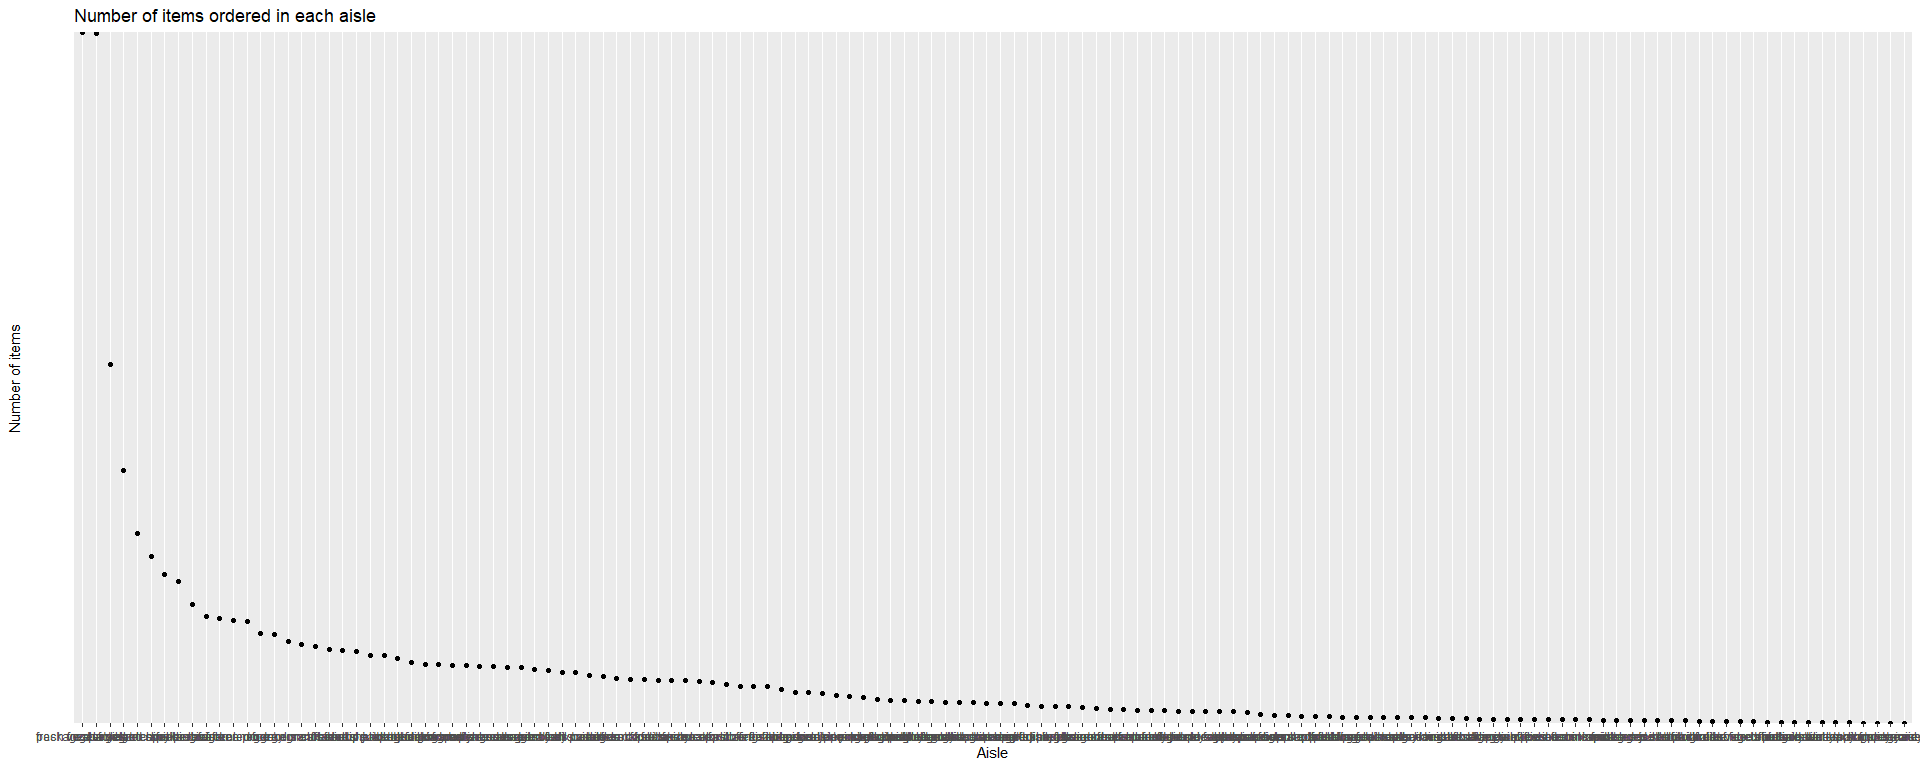
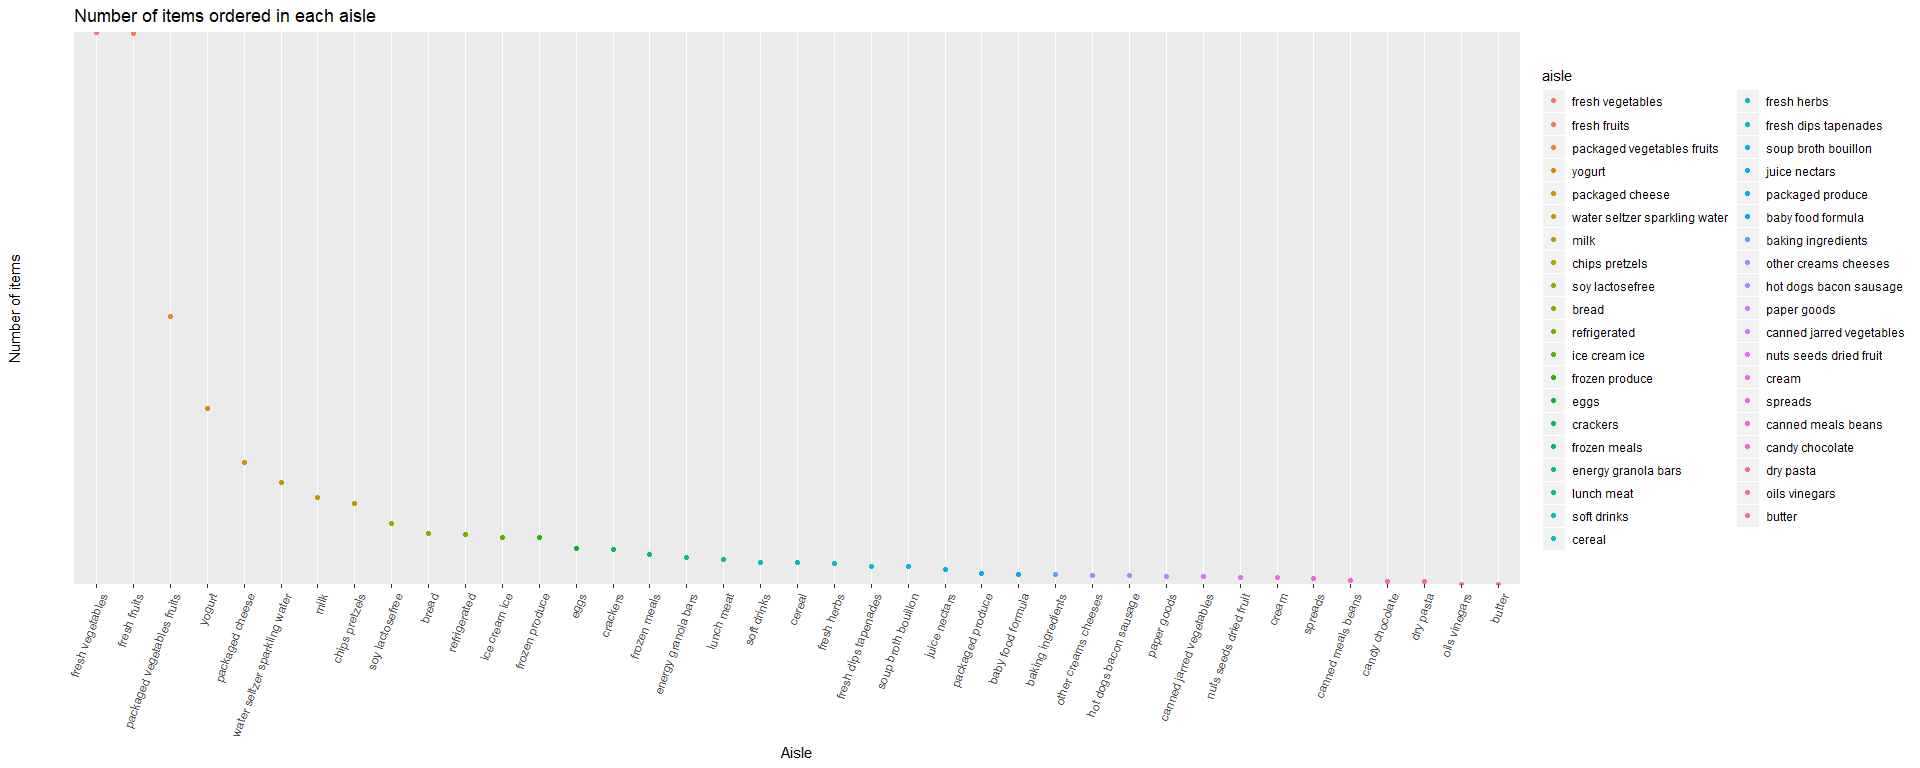
revise problem 1

diff --git a/p8105_hw3_yx2507.md b/p8105_hw3_yx2507.md
@@ -53,14 +53,16 @@ aisles sensibly, and organize your plot so others can read it.
 instacart%>%
   count(aisle)%>%
   mutate(aisle = fct_reorder(aisle, desc(n)))%>%
+  filter(n>10000)%>%
   ggplot(aes(x = aisle, y = n))+
    scale_y_discrete(breaks = c(200000,20000, 2000, 200),labels=c("200000","20000", "2000", "200"), limits = c(10000,200000)) +
-  geom_point()+
+  geom_point(aes(color = aisle))+
   labs(
       title = "Number of items ordered in each aisle",
       x = "Aisle",
       y = "Number of items"
-    )
+    ) +
+theme(axis.text.x = element_text(angle = 70, hjust = 1))
 ```
 
 ![](p8105_hw3_yx2507_files/figure-gfm/plot1-1.png)<!-- --> \#\# 1.3 Make
@@ -74,8 +76,9 @@ instacart %>%
   filter(aisle %in% c('baking ingredients', 'dog food care', 'packaged vegetables fruits')) %>% 
   group_by(aisle, product_name)  %>% 
   count() %>% 
-  group_by(aisle) %>% 
-  filter(n==max(n))%>%
+  group_by(aisle) %>%
+  mutate(order_rank=min_rank(desc(n)))%>%
+  filter(order_rank < 4)%>%
   select(aisle, product_name)%>%
    knitr::kable(
     col.names = c("Aisle", "Most popular item"), 
@@ -124,7 +127,71 @@ baking ingredients
 
 <td style="text-align:left;">
 
+Cane Sugar
+
+</td>
+
+</tr>
+
+<tr>
+
+<td style="text-align:left;">
+
+baking ingredients
+
+</td>
+
+<td style="text-align:left;">
+
 Light Brown Sugar
+
+</td>
+
+</tr>
+
+<tr>
+
+<td style="text-align:left;">
+
+baking ingredients
+
+</td>
+
+<td style="text-align:left;">
+
+Pure Baking Soda
+
+</td>
+
+</tr>
+
+<tr>
+
+<td style="text-align:left;">
+
+dog food care
+
+</td>
+
+<td style="text-align:left;">
+
+Organix Chicken & Brown Rice Recipe
+
+</td>
+
+</tr>
+
+<tr>
+
+<td style="text-align:left;">
+
+dog food care
+
+</td>
+
+<td style="text-align:left;">
+
+Small Dog Biscuits
 
 </td>
 
@@ -156,8 +223,40 @@ packaged vegetables fruits
 
 <td style="text-align:left;">
 
-Organic Baby
-Spinach
+Organic Baby Spinach
+
+</td>
+
+</tr>
+
+<tr>
+
+<td style="text-align:left;">
+
+packaged vegetables fruits
+
+</td>
+
+<td style="text-align:left;">
+
+Organic Blueberries
+
+</td>
+
+</tr>
+
+<tr>
+
+<td style="text-align:left;">
+
+packaged vegetables fruits
+
+</td>
+
+<td style="text-align:left;">
+
+Organic
+Raspberries
 
 </td>
 
@@ -180,7 +279,7 @@ Spinach
     names_from = "order_dow",
     values_from = "mean"
   ) %>% 
-knitr::kable( 
+knitr::kable( digits = 1，
   col.names = c("Product Name", "Sun", "Mon", "Tue", "Wed", "Thu", "Fri", "Sat"),
   caption = "Table of mean order hours for pink lady apples and coffee ice creams in each day ",
   format = 'html'
@@ -264,43 +363,43 @@ Coffee Ice Cream
 
 <td style="text-align:right;">
 
-13.77419
+13.8
 
 </td>
 
 <td style="text-align:right;">
 
-14.31579
+14.3
 
 </td>
 
 <td style="text-align:right;">
 
-15.38095
+15.4
 
 </td>
 
 <td style="text-align:right;">
 
-15.31818
+15.3
 
 </td>
 
 <td style="text-align:right;">
 
-15.21739
+15.2
 
 </td>
 
 <td style="text-align:right;">
 
-12.26316
+12.3
 
 </td>
 
 <td style="text-align:right;">
 
-13.83333
+13.8
 
 </td>
 
@@ -316,43 +415,43 @@ Pink Lady Apples
 
 <td style="text-align:right;">
 
-13.44118
+13.4
 
 </td>
 
 <td style="text-align:right;">
 
-11.36000
+11.4
 
 </td>
 
 <td style="text-align:right;">
 
-11.70213
+11.7
 
 </td>
 
 <td style="text-align:right;">
 
-14.25000
+14.2
 
 </td>
 
 <td style="text-align:right;">
 
-11.55172
+11.6
 
 </td>
 
 <td style="text-align:right;">
 
-12.78431
+12.8
 
 </td>
 
 <td style="text-align:right;">
 
-11.93750
+11.9
 
 </td>
 
@@ -361,3 +460,31 @@ Pink Lady Apples
 </tbody>
 
 </table>
+
+# prolem 2
+
+load the dataset
+
+``` r
+library(p8105.datasets)
+data("brfss_smart2010")
+```
+
+## 2.1
+
+First, do some data cleaning: format the data to use appropriate
+variable names; focus on the “Overall Health” topic include only
+responses from “Excellent” to “Poor” organize responses as a factor
+taking levels ordered from “Poor” to “Excellent”
+
+``` r
+health_data=
+  brfss_smart2010 %>%
+  janitor::clean_names()%>%
+  select(-respid,-geo_location)%>%
+  filter(topic %in% c("overall health"))%>%
+  filter(response %in% c("excellent", "good","poor"))%>%
+   mutate(response = fct_relevel(response, c("Excellent", "Very good", "Good", "Fair", "Poor")))
+```
+
+    ## Warning: Unknown levels in `f`: Excellent, Very good, Good, Fair, Poor
